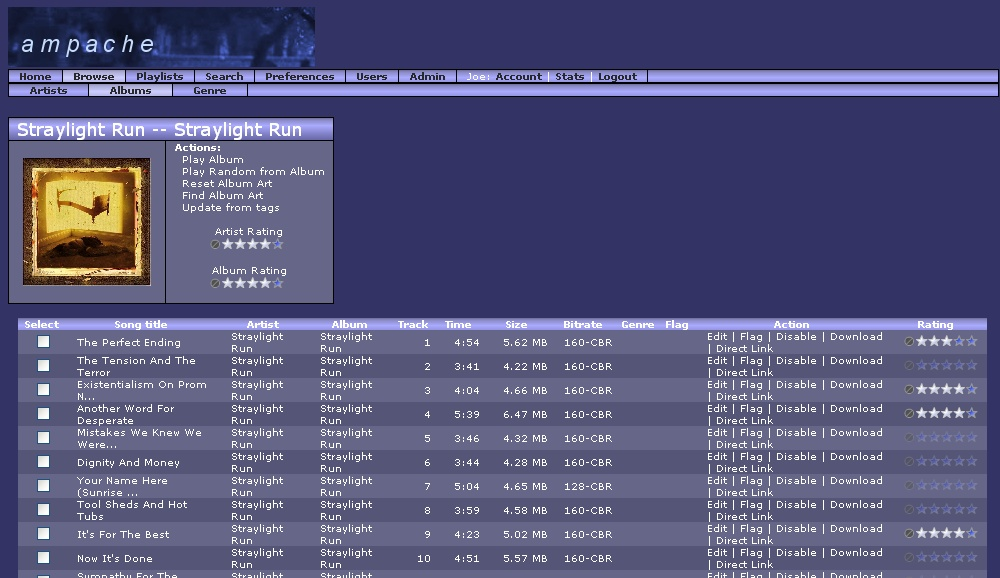
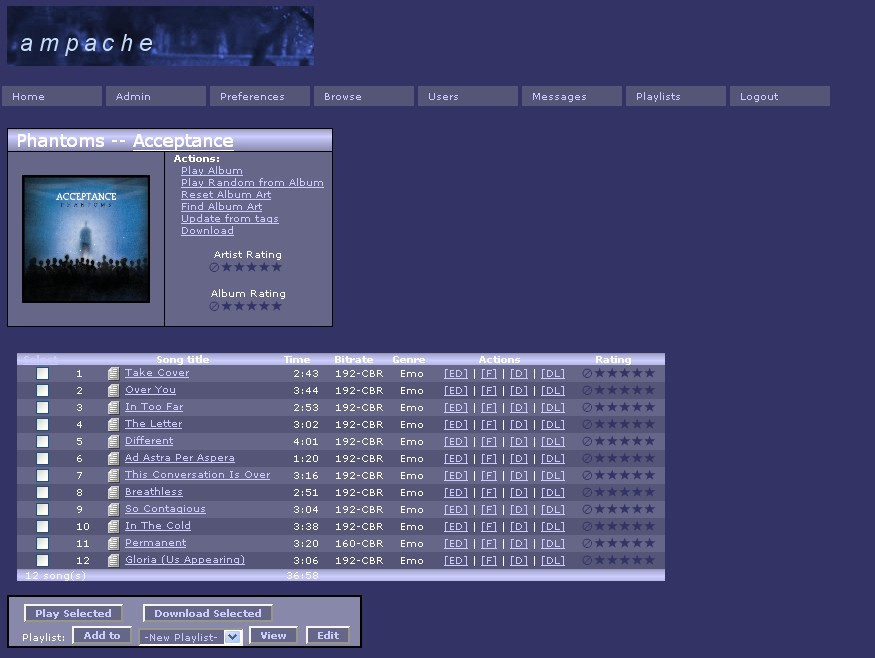
new stoneblue theme
git-svn-id: https://svn.ampache.org/contrib@294 156b4d88-1ef9-0310-86f8-9f1f7faf7ab5

diff --git a/themes/StoneBlue/theme.cfg.php b/themes/StoneBlue/theme.cfg.php
@@ -3,7 +3,7 @@
 ##################
 
 ###########################
-# Classic Ampache Theme
+# StoneBlue Ampache Theme
 ###########################
 
 # Theme Name
@@ -25,7 +25,21 @@ author = "SoundOfEmotion"
 # DEFAULT: N/A
 maintainer = "SoundOfEmotion <soundofemotion@gmail.com>"
 
-version = "1.0"
+# Version
+# This is the version of the Theme (usefull if you've updated it)
+version = "2.0"
+
+# Orientation
+# This was added as of 3.3.2-Alpha4, this tells Ampache if this theme
+# uses vertical or horizontal orientation of the menu, if this is a horizontal
+# theme then it will not show the quick search and quick random play forms
+orientation = "horizontal"
+
+# Submenu
+# If this is set to simple the sub menu's will only be shown when you're on one of the
+# respective pages. If you want to make the menu's something like the classic theme
+# comment this out
+#submenu = "simple"
 
 # Theme Colors
 ###################
